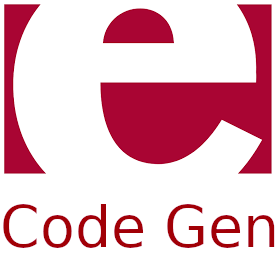
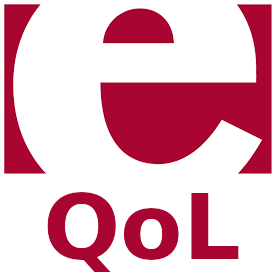
added folders and updated branding

Changed region(s): [[0.0, 0.6857, 0.8571, 0.9714], [0.8857, 0.7714, 1.0, 0.8857]]

diff --git a/src/erlang-data-provider.ts b/src/erlang-data-provider.ts
@@ -49,6 +49,13 @@ export class ErlangDataProvider implements vscode.TreeDataProvider<vscode.TreeIt
 
     if (element) {
 
+      if (element instanceof FolderItem) {
+        return Promise.resolve(
+          this.readFilesInFolder(
+            this.workspaceRoot, path.join(element.filePath, element.fileName)
+          )
+        );
+      }
       if (!(element instanceof ModuleInfo)) {
         return Promise.resolve([]);
       }
@@ -115,8 +122,7 @@ export class ErlangDataProvider implements vscode.TreeDataProvider<vscode.TreeIt
             if (stat.isFile() && knownExt) {
                 deps.push(new ModuleInfo(file, projectPath, fileType, vscode.TreeItemCollapsibleState.Collapsed));
             } else if (stat.isDirectory()) {
-                var items = this.readFilesInFolder(path.join(solutionPath), path.join(projectPath, file));
-                deps = deps.concat(items);
+                deps.unshift(new FolderItem(file, projectPath, vscode.TreeItemCollapsibleState.Collapsed));
             }
         });
 
@@ -359,6 +365,18 @@ export function openTextDocumentAtLine(filePath:string, lineNumber:number) {
       }));
 }
 
+class FolderItem extends vscode.TreeItem {
+  constructor(
+    public readonly fileName: string,
+    public readonly filePath: string,
+    public readonly collapsibleState: vscode.TreeItemCollapsibleState
+  ) {
+    super(fileName, collapsibleState);
+    this.tooltip = this.filePath;
+    this.description = 'Folder';
+  }
+}
+
 class ModuleInfo extends vscode.TreeItem {
   constructor(
     public readonly fileName: string,
@@ -471,6 +489,7 @@ class BehaviourInfo extends ModuleData {
     dark: path.join(__filename, '..', '..', 'images', 'dark', 'behaviour.svg')
   };
 }
+
 class CallbackInfo extends ModuleData {
   constructor(
     filePath: string,
@@ -481,7 +500,7 @@ class CallbackInfo extends ModuleData {
     public readonly collapsibleState: vscode.TreeItemCollapsibleState
   ) {
     super(name, collapsibleState, name + "(" + inputs + ") ->" + returns + ".", filePath, lineNumber);
-    this.tooltip = `${this.label}`;
+    this.tooltip = returns;
     this.description = inputs;
   }
 

diff --git a/README.md b/README.md
@@ -1,17 +1,18 @@
-# erlang-code-generation
+# Erlang Quality of Life Improvements
 
 Download here: https://marketplace.visualstudio.com/items?itemName=bocdev.erlang-code-generation
 
-This is an Extension for Visual Studio Code to generate some boilerplate code for you Erlang projects. Its currently under development. Feel free to create pull requests for anything you think would be useful!
+This is an Extension for Visual Studio Code to make using erlang in vscode just better. Its currently under development. Feel free to create pull requests for anything you think would be useful!
 
 # Features
-
+- [Side bar](#side-bar)
+- [Code Generation & Snippets](#code-generation-and-snippets)
 ## Side bar
 Version 1 introduces the project explorer, which gives you a top level view of your project and all the files within. Selecting a module or one of the items within one (definitions, macros, records, types, exported functions, imported function, tests) will take you to the module and the line number the sub item is found out. Pressing the pen icon on module items will copy it to your clipboard so you can use said item.
 
 ![Side](https://github.com/qualia91/erlang-code-generation/blob/master/images/side_bar_image.png?raw=true)
 
-## Currently Supported Generation:
+## Code Generation and Snippets:
 - [Comments](#comments)
     - [Header](#header)
     - [Section](#section)
